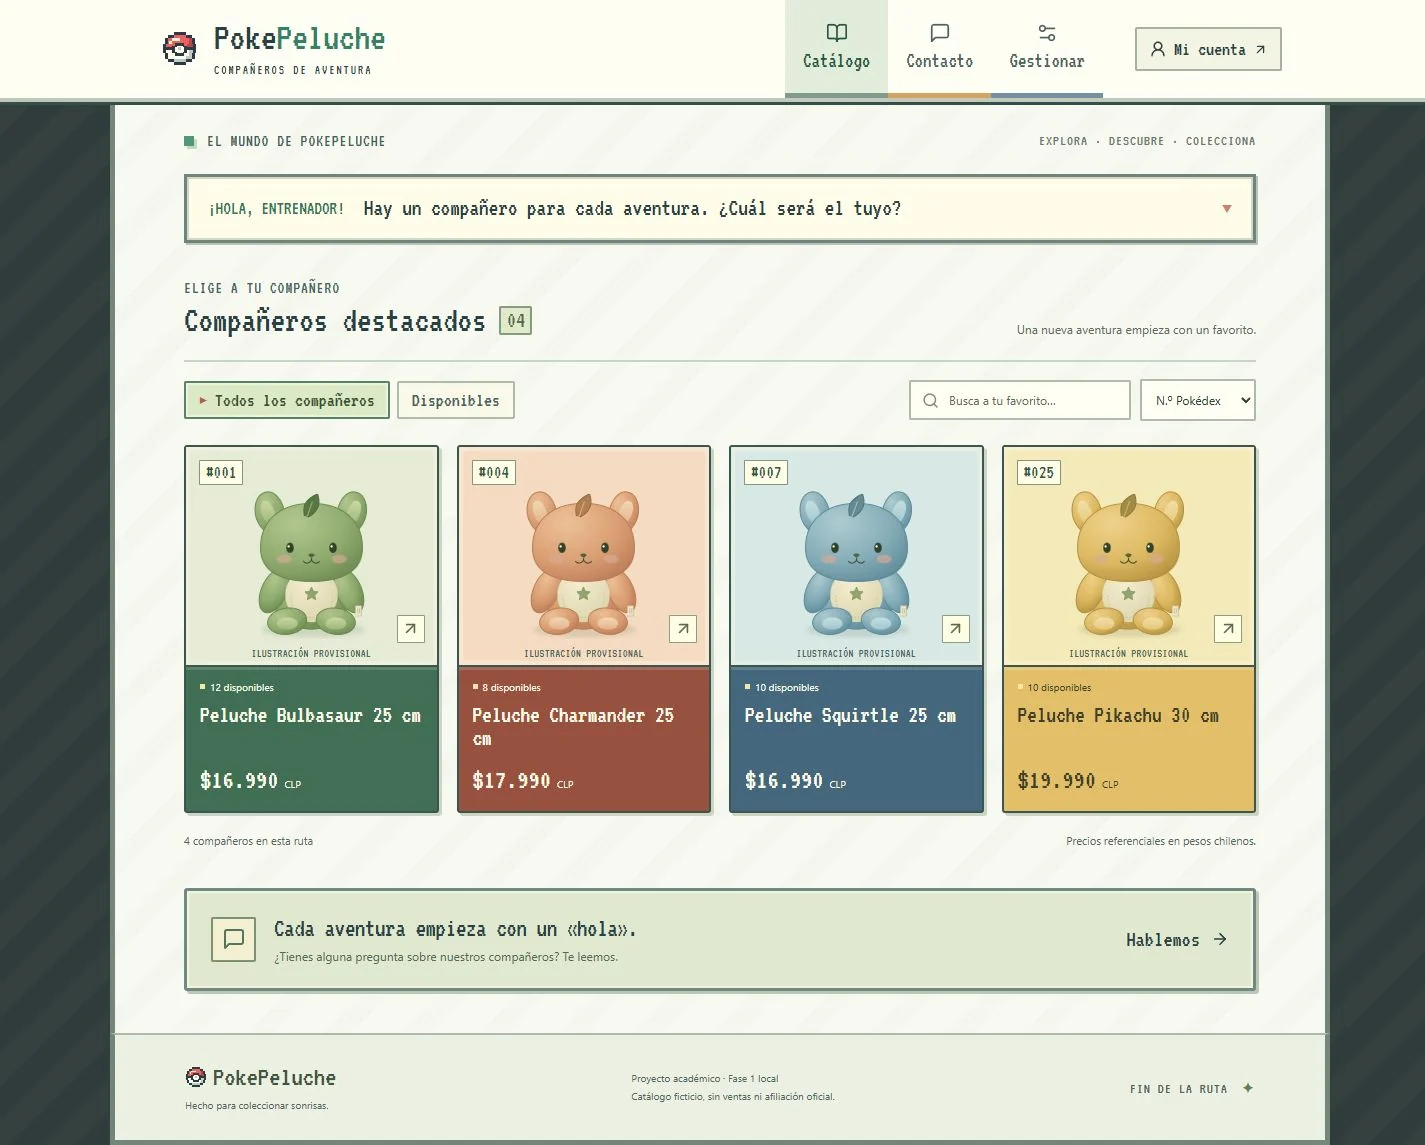
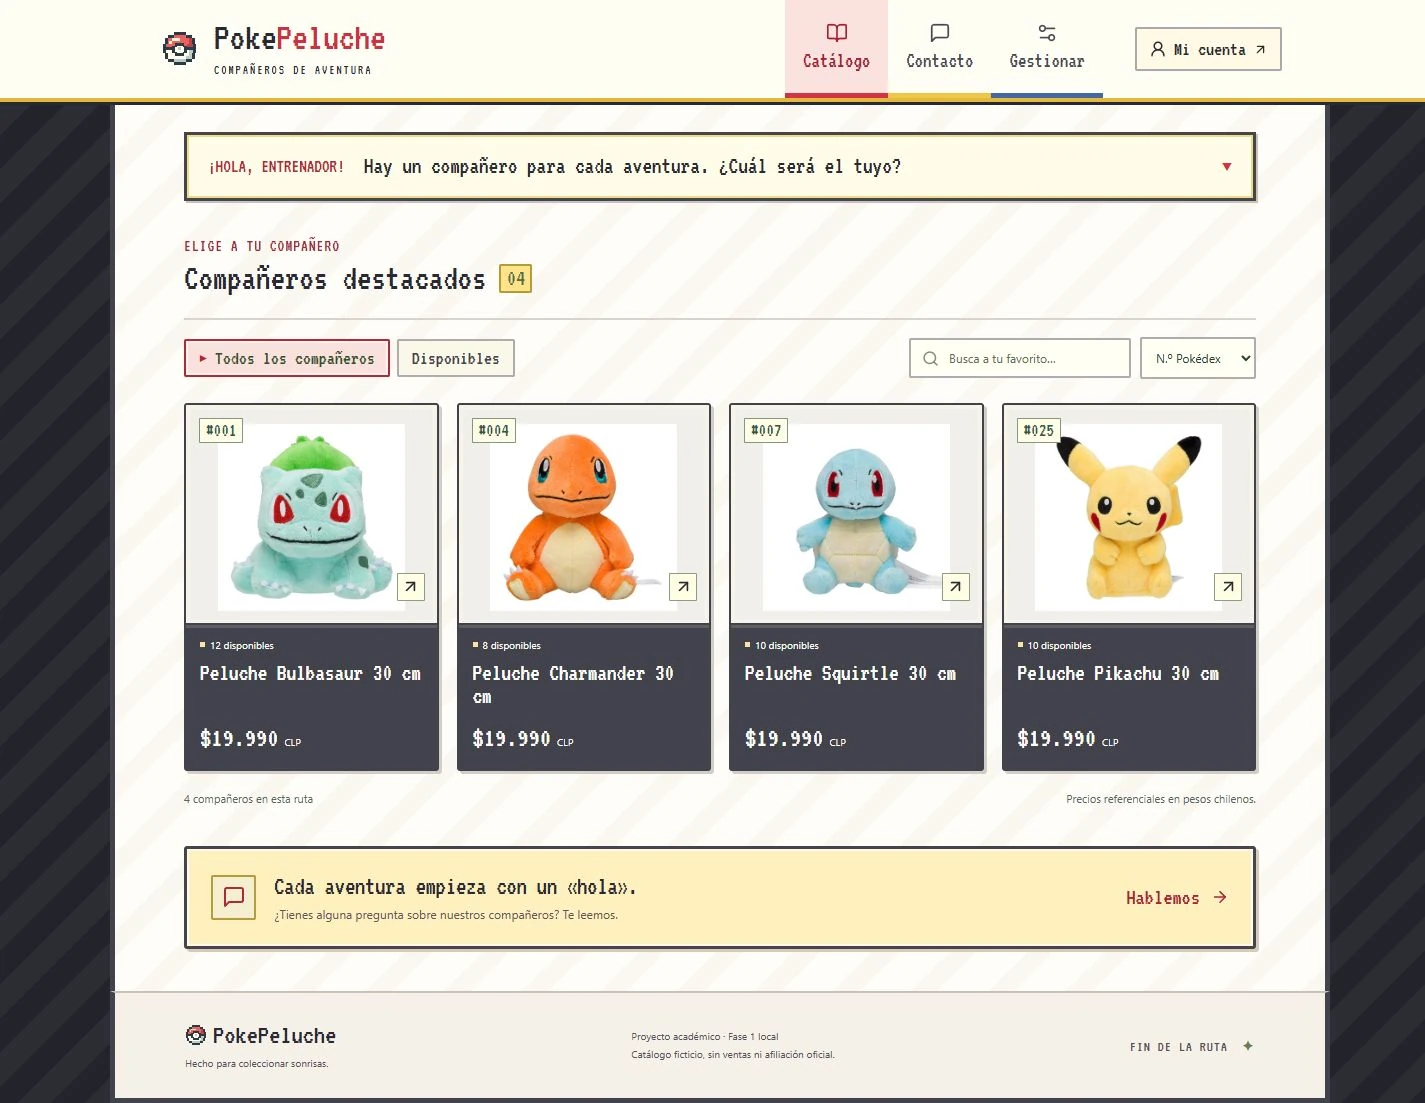
fix(projects): use verified PokePeluche catalog screenshot

diff --git a/src/data.ts b/src/data.ts
@@ -32,7 +32,7 @@ export const projects: Project[] = [
     category: 'DESARROLLO FULLSTACK · PROYECTO ACADÉMICO',
     description: 'Aplicación web para consultar y administrar un catálogo de peluches de Pokémon. Desarrollada con React, Spring Boot y SQLite, con autenticación mediante Amazon Cognito y permisos por roles.',
     tags: ['React', 'Java · Spring Boot', 'Amazon Cognito', 'SQLite'],
-    image: 'images/pokepeluche.webp', width: 1425, height: 1145,
+    image: 'images/pokepeluche.webp', width: 1425, height: 1103,
     repo: 'https://github.com/JuanBeltranV/tienda-pokepeluche',
     architecture: ['React + Amplify', 'API Gateway', 'Spring Boot', 'SQLite'],
     details: [

diff --git a/docs/content-sources.md b/docs/content-sources.md
@@ -1,16 +1,17 @@
 # Procedencia del contenido
 
-Revisión: 20 de octubre de 2026.
+Revisión: 21 de octubre de 2026.
 
 ## Referencia visual
 
-[Jacek's Portfolio](https://www.jacekhacking.com/) inspeccionado visualmente en escritorio y a 390 px: fondo oscuro, nombre destacado, navegación compacta, presentación personal, bloques de proyectos con detalles y formación. Se observó texto animado en la introducción. No se copiaron código, imágenes ni composición literal. La adaptación usa una portada asimétrica, monograma propio, acentos verdes, imágenes reales y filas editoriales.
+[Jacek's Portfolio](https://www.jacekhacking.com/) inspeccionado visualmente en escritorio y a 390 px: fondo oscuro, nombre destacado, navegación compacta, presentación personal, bloques de proyectos con detalles y formación. Se observó texto animado en la introducción. No se copiaron código, imágenes ni composición literal. La adaptación conserva la portada asimétrica con espacio vacío a la derecha, acentos verdes, imágenes reales y filas editoriales. Los logotipos pequeños se mantienen en navegación y footer.
 
 ## Proyectos
 
 - [PokePeluche README](https://github.com/JuanBeltranV/tienda-pokepeluche/blob/main/README.md): catálogo académico, CRUD por rol, Cognito, Spring, SQLite y contacto. Sin carrito, pagos ni pedidos; sin demo permanente. Arquitectura de demostración con API Gateway y Quick Tunnel documentada, no auditada ni desplegada por este portafolio.
-- [Captura PokePeluche](https://github.com/JuanBeltranV/tienda-pokepeluche/blob/main/docs/capturas/catalogo-emerald-escritorio.png), enlazada desde [diseño](https://github.com/JuanBeltranV/tienda-pokepeluche/blob/main/docs/diseno.md). La captura corresponde a la etapa Emerald, anterior a la apariencia actual; se indica en el pie y los detalles. No representa una nueva ejecución ni certifica el backend actual.
[1 lines of base64/hex data omitted]
 - [Country Clash README](https://github.com/JuanBeltranV/country-clash/blob/main/README.md): comparación de poblaciones, puntuación por sesión, siluetas con D3/TopoJSON, datos de respaldo y demo Pages.
+- [Código de la API de Country Clash](https://github.com/JuanBeltranV/country-clash/blob/main/src/api/restCountries.js): verifica el uso de `https://restcountries.com/v3.1/all?fields=name,population,flags,cca2,cca3,ccn3`, un tiempo de espera de 3500 ms y la alternativa local cuando la respuesta falla o no contiene suficientes países válidos. El detalle técnico nombra la API por esta evidencia de código, sin afirmar disponibilidad actual del servicio externo.
 - [Captura Country Clash](https://github.com/JuanBeltranV/country-clash/blob/main/public/assets/preview-example.png): captura incluida en el README, convertida a WebP sin alterar su contenido.
 
 No se usaron datos de proyectos privados. Las tecnologías se basan en estos repositorios, el portafolio anterior (Python, Oracle SQL) y el stack de este portafolio. Las áreas de IA y DevOps se presentan como intereses, sin inventar proyectos o niveles de dominio.
